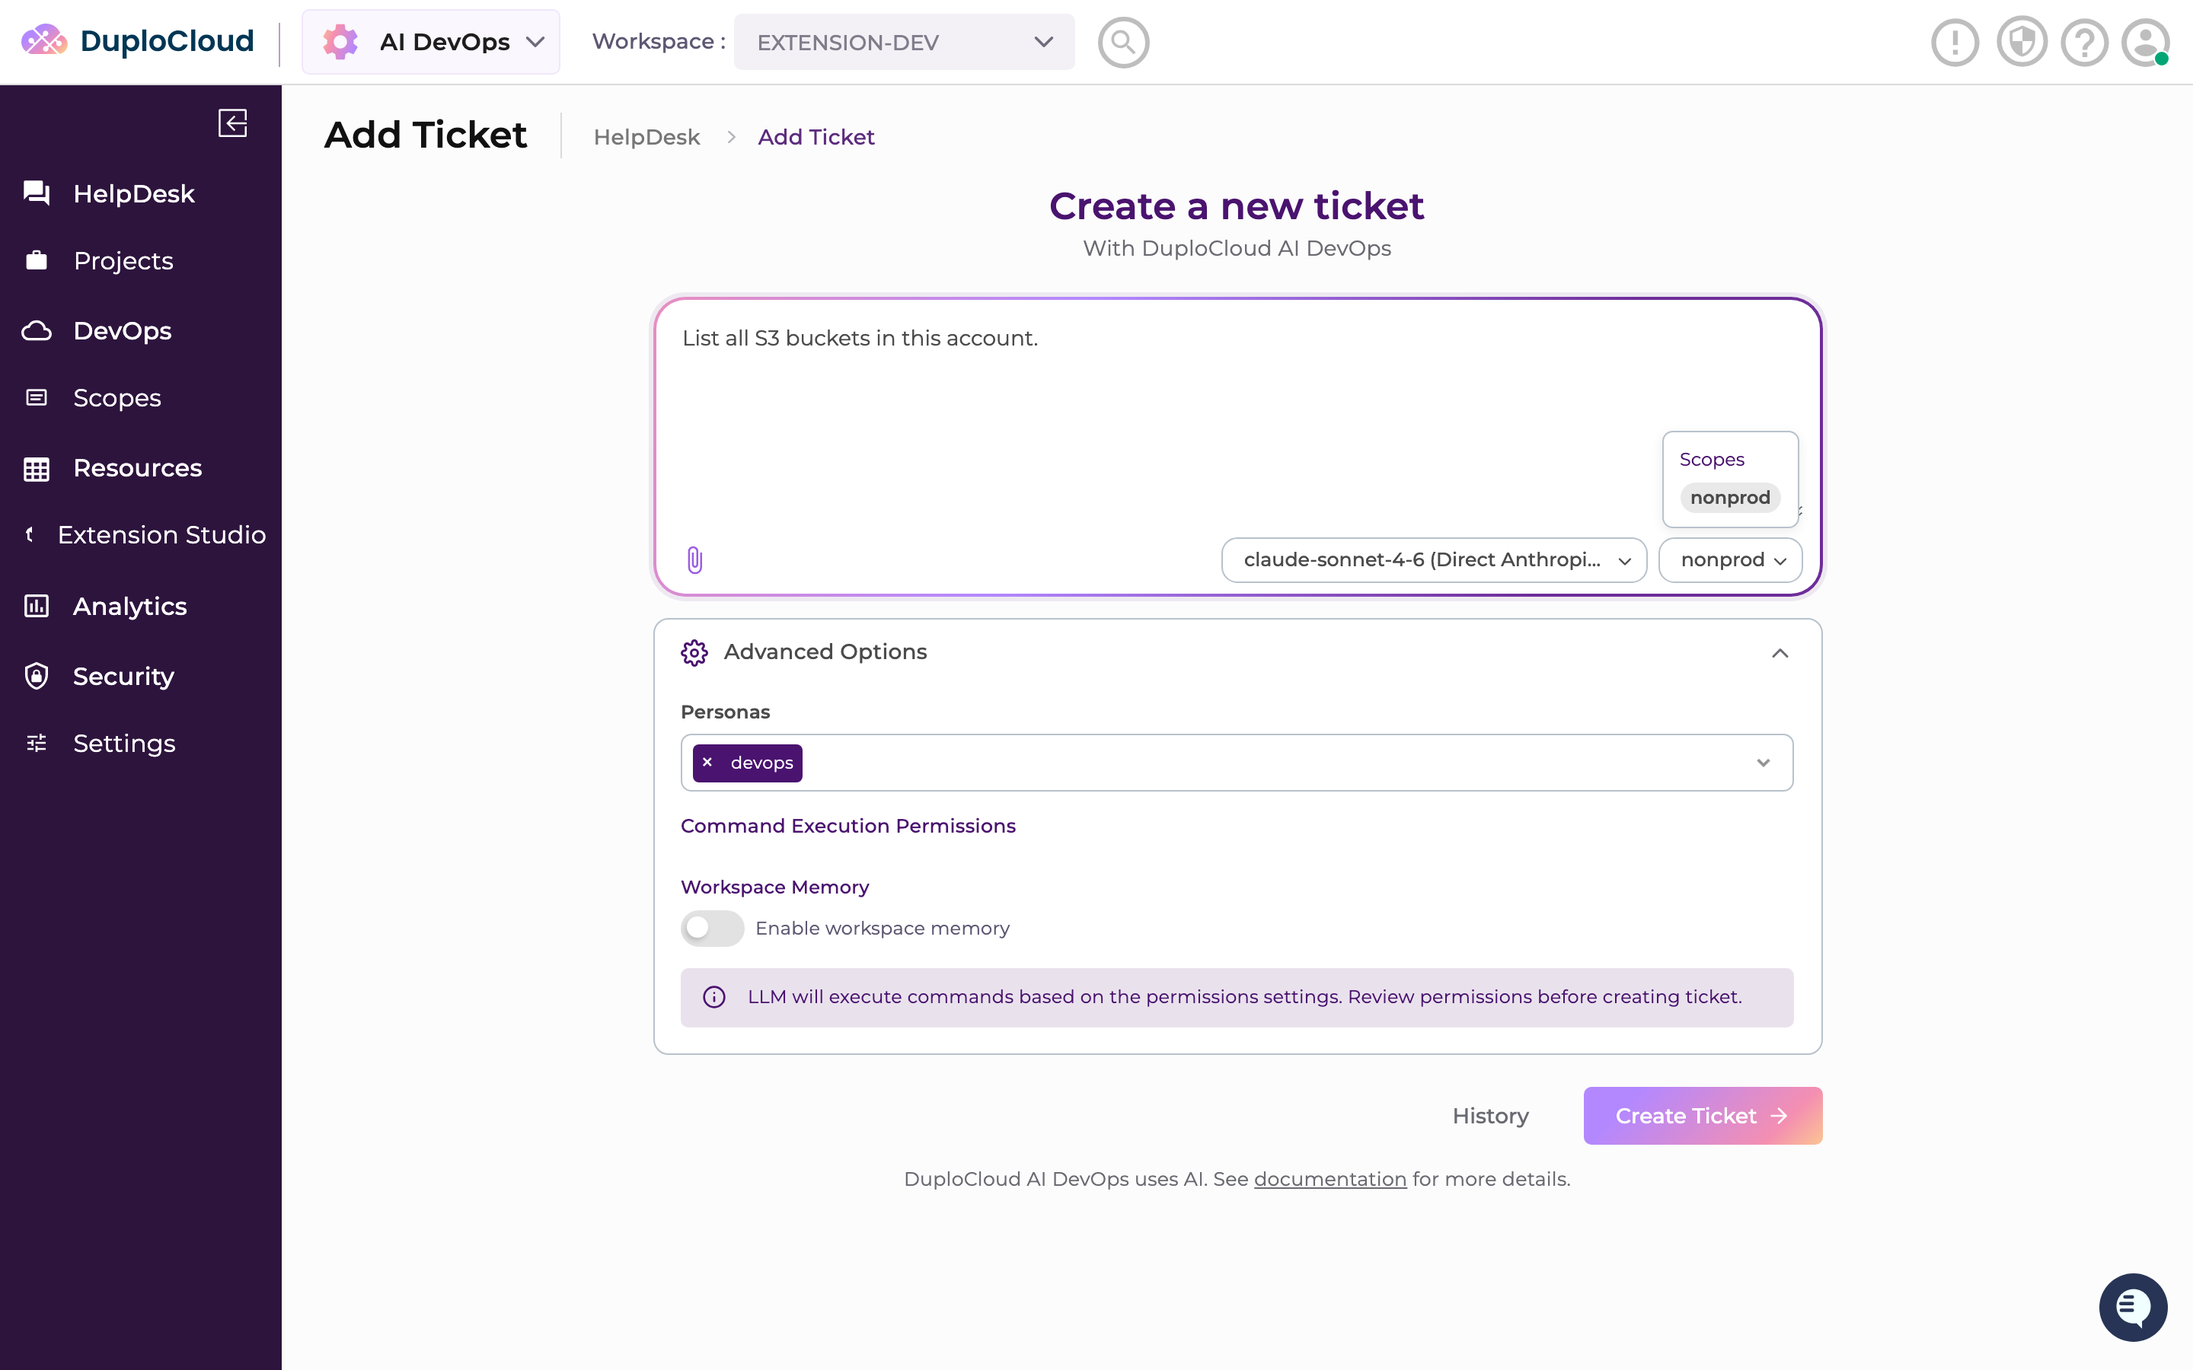
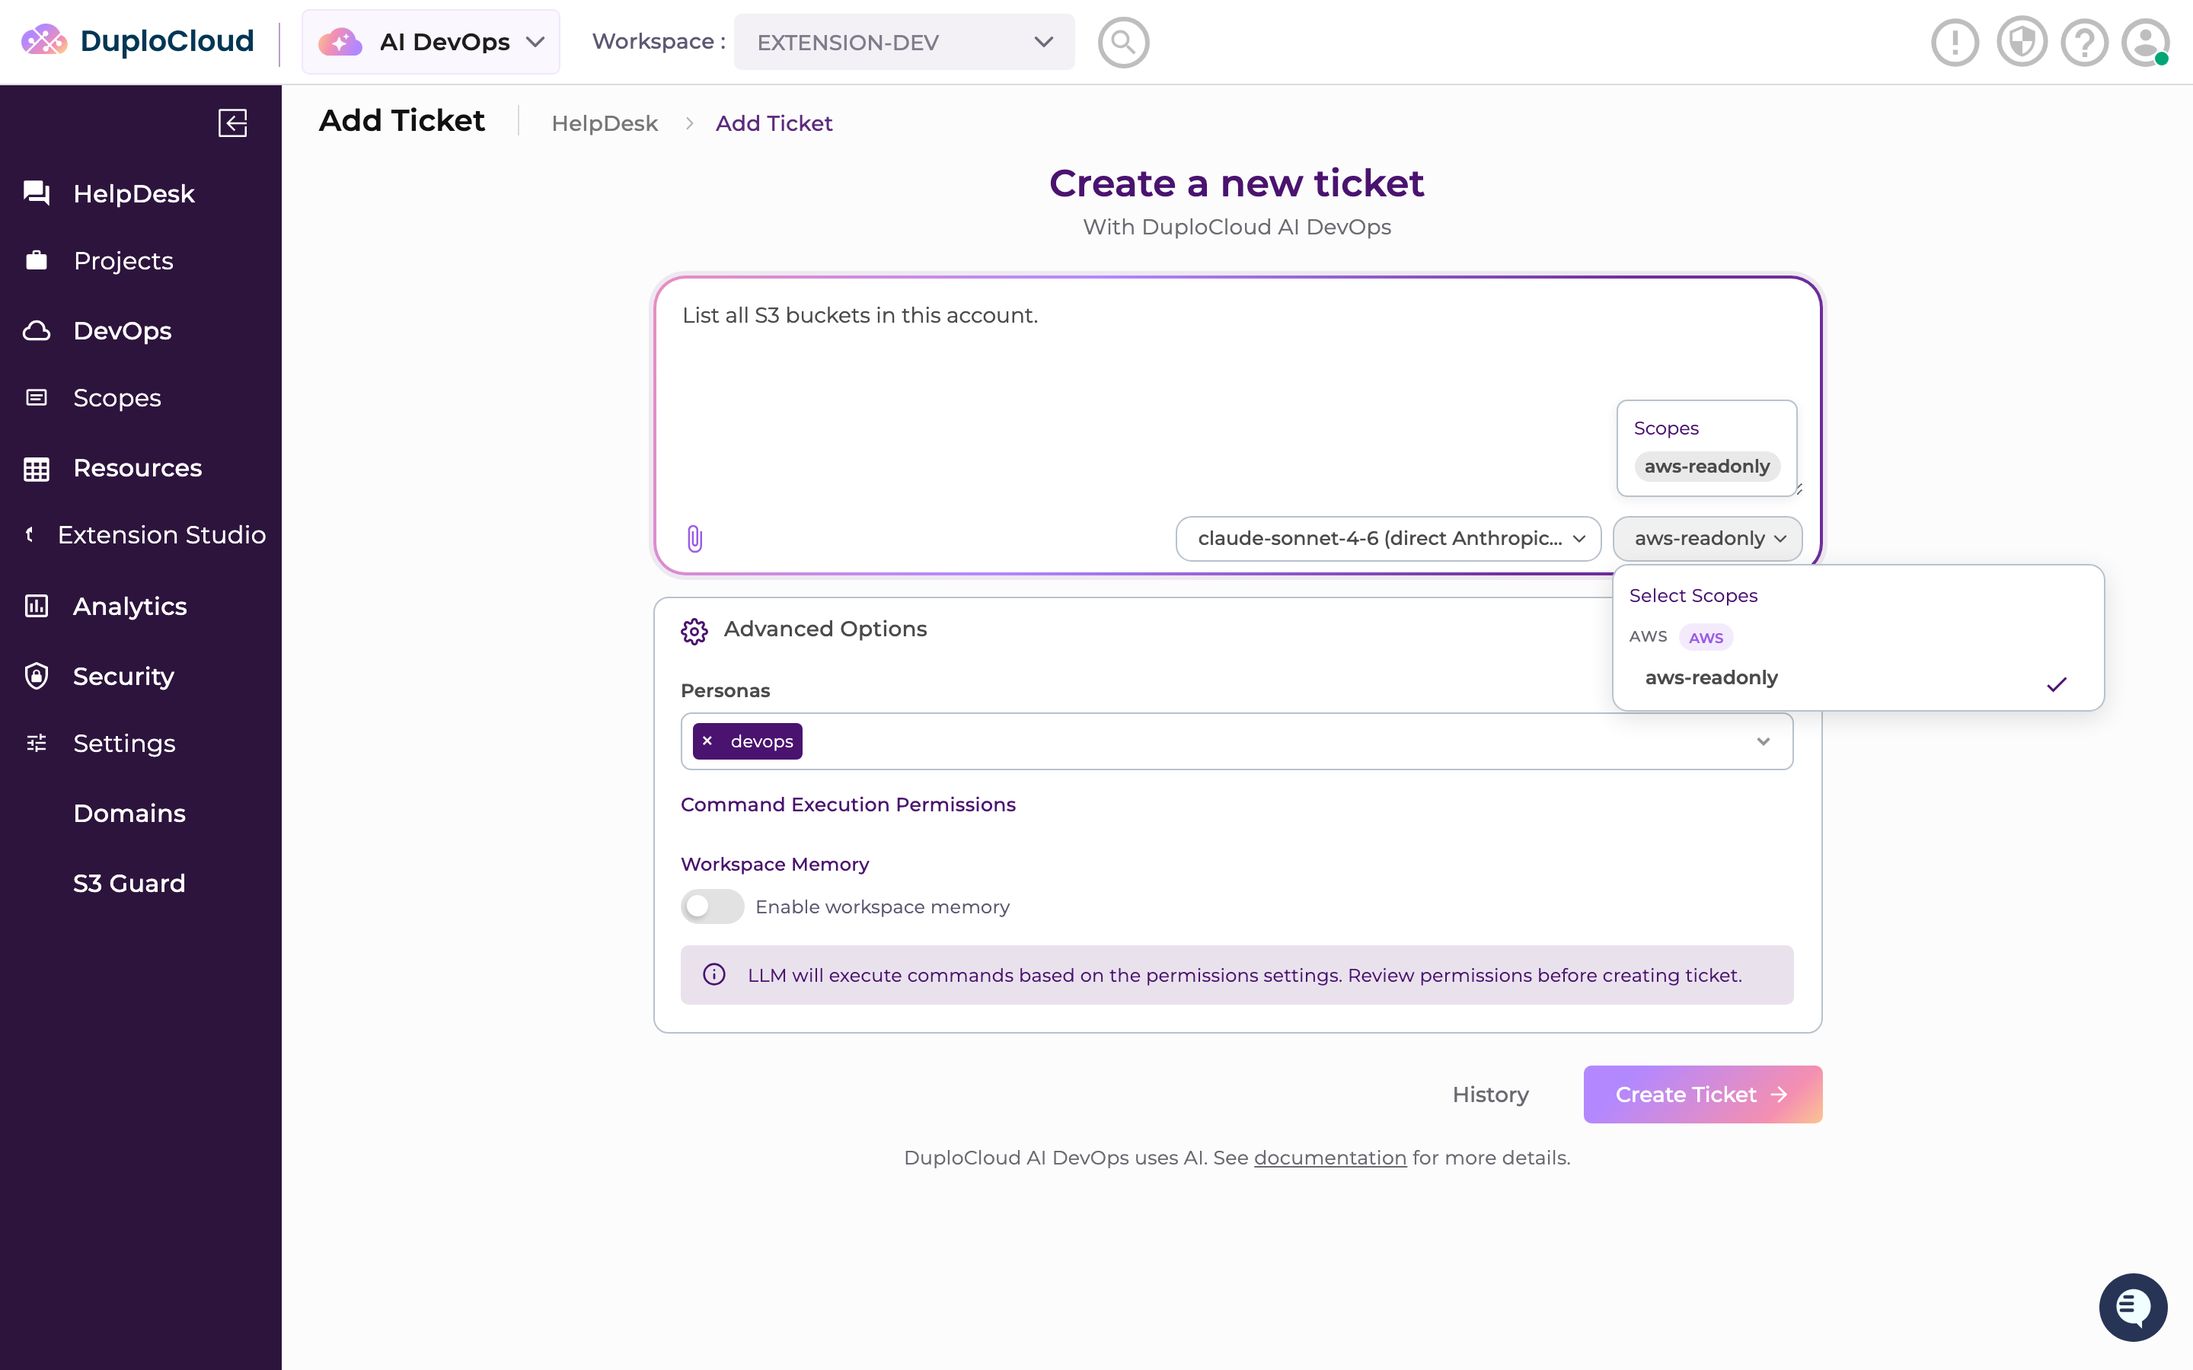
docs: rework the extension walkthrough around the Overview and add screenshots
The s3-guard specification readers paste now produces the two-item S3 Guard nav
group (Overview + Security Scans) with the charts at the estate level, since a
single scan only ever shows one region.

- Spec block: adds the Overview requirement, states the carry-forward timeline
  rule (plotting snapshots in arrival order is silently wrong once there is more
  than one scan), requires the aggregate be its own endpoint, and makes the
  scan detail page explicitly chart-free.
- Adds an evidence-accuracy requirement: a bucket with no policy is a different
  finding from a policy missing the deny, and unreadable configuration must say
  so rather than pass silently.
- Rewrites the Remediate callout. It previously asserted Remediate always returns
  AccessDenied; that holds only for the read-only scope page 2 creates, so it now
  scopes the claim and warns that a write-capable scope changes real buckets.
- 4.6 becomes a seven-step walkthrough with six screenshots.
- Fixes a count mismatch: the page said six rules while every dashboard shows
  seven rows, because public read and public write are separate findings.

Also retakes the step 5 ticket screenshot shared by quickstart.md and
connect-aws.md. The old one showed a `nonprod` scope, contradicting both pages,
which tell you to create and select `aws-readonly`.

diff --git a/docs/getting-started/build-your-first-extension.md b/docs/getting-started/build-your-first-extension.md
@@ -26,14 +26,19 @@ give it a name, an AWS region, the scope to scan with, and optionally a bucket t
 — and provisioning does the work:
 
 - **The scan.** Using the scope's AWS credentials, it inspects every S3 bucket in that region and
-  checks each one against six rules: Block Public Access not fully enabled, a policy or ACL allowing
-  public read or public write, default encryption off, versioning off, server access logging off, and
-  TLS not enforced. Each rule carries a severity, from Critical down to Low. The results are stored on
-  the resource rather than re-read live on every page load, and every run appends a summary snapshot.
+  checks each one against these rules: Block Public Access not fully enabled, a policy or ACL allowing
+  public read or public write (reported separately, so the dashboards show seven rows), default
+  encryption off, versioning off, server access logging off, and TLS not enforced. Each rule carries a
+  severity, from Critical down to Low. The results are stored on the resource rather than re-read live
+  on every page load, and every run appends a summary snapshot.
 
-- **The dashboard.** The scan's detail page: how many buckets were scanned, how many are clean, how
-  many have at least one violation, a count per rule, and a chart of violations over time — which is
-  what those snapshots are for. Below it, a table of only the buckets that failed something.
+- **The Overview.** The estate-wide dashboard, across every scan you have: totals, a count per rule,
+  a table of all your scans, and a chart of posture over time — which is what those snapshots are for.
+  This is the top of the feature, and it is deliberately not per-scan: one scan only ever shows one
+  region, and the question worth asking is whether the whole account is getting better.
+
+- **The scan detail page.** One region: how many buckets were scanned, how many are clean, how many
+  have at least one violation, a count per rule, and a table of only the buckets that failed something.
 
 - **The per-bucket detail view.** Click a failing bucket and you get every violation it has, what was
   found, why it matters, and an action plan describing the exact remediation for each one.
@@ -42,8 +47,10 @@ give it a name, an AWS region, the scope to scan with, and optionally a bucket t
   applies the fix for the ticked ones, re-scans that bucket, and updates its result. Read [4.4](#44-give-it-the-specification)
   before you press it.
 
-There can be several scans — one per region, re-run over time — so they are listed under their own
-**S3 Guard** group in the left navigation.
+There can be several scans — one per region, re-run over time — so they live under their own **S3 Guard**
+group in the left navigation, with **Overview** and **Security Scans** in it.
+
+![The S3 Guard group open in the left navigation, showing Overview and Security Scans](../images/s3guard-nav.png)
 
 You do not write any of this by hand. `/duplo-extension` interviews you, plans it, and builds it.
 
@@ -70,7 +77,7 @@ Leave the browser tab open; you come back to it in [4.6](#46-see-it-in-the-porta
 
 ## 4.3 Run `/duplo-extension`
 
-```
+```text
 /duplo-extension
 ```
 
@@ -101,9 +108,10 @@ almost straight to a plan.
 Build an extension called s3-guard: a security posture dashboard for S3 buckets.
 
 Use the AWS scope attached to the dev workspace for testing — if the scope name I give you
-doesn't exist, just use the one that's there, don't stop to ask. Note that Remediate needs S3
-write permissions: with read-only credentials scanning works fine and every Remediate comes
-back AccessDenied. That's the expected result, not a bug to chase.
+doesn't exist, just use the one that's there, don't stop to ask. Remediate needs S3 write
+permissions. If the scope is read-only every Remediate comes back AccessDenied, which is a
+result to display per rule, not a bug to chase — but don't assume the scope is read-only
+either. Report what actually happens, and tell me if a Remediate really changes a bucket.
 
 One resource type, "S3 Security Scan". The spec is a name, an AWS region, the scope to scan
 with, and an optional log target bucket. Provisioning uses the scope's AWS credentials to
@@ -119,28 +127,53 @@ inspect every S3 bucket in that region and check it against these rules:
 Severity per rule: public read/write are Critical, Block Public Access and TLS are High,
 encryption is Medium, versioning and logging are Low.
 
+Get the evidence right, not just the verdict. A bucket with no policy at all is a different
+finding from a bucket whose policy lacks the deny, and each rule should say what was actually
+observed. A bucket whose configuration can't be fully read should say so rather than silently
+passing.
+
 This is deterministic work — do it in a background worker, not an agent skill.
 
 The result records, per bucket, which rules it fails. Store the results on the resource rather
-than rescanning live on every page load, and have each run append a summary snapshot so the
-dashboard can show progress over time.
+than rescanning live on every page load, and have each run append a summary snapshot.
 
-Put it in a new top-level nav group called "S3 Guard".
+Put it in a new top-level nav group called "S3 Guard" with two items: Overview and Security
+Scans.
 
-There can be several scans (one per region, re-run over time), so the nav lists the scans and
-each scan's detail page is the dashboard: total buckets scanned, how many are clean, how many
-have at least one violation, a count per rule, and a chart of violations over time. Below that,
-a table of only the buckets that failed something — bucket name, region, number of violations,
-worst severity.
+Overview is the top-level dashboard and it is where the charts live. It aggregates across ALL
+scans, not one: total buckets scanned, clean, and with at least one violation; a count per
+rule; how many scans across how many regions; and a chart of posture over time for the whole
+estate. Below that, a table of every scan — name, region, status, last scanned, buckets,
+buckets with violations — that clicks through to the scan.
+
+The estate timeline has to combine scans that are sampled at different times: one region might
+re-scan hourly while another re-scans weekly. At each point in time, every scan contributes its
+most recent snapshot at or before that moment, and those are summed. Do not just plot snapshots
+in the order they arrive — that makes the estate look like it collapses to one region's size
+every time a single scan re-runs. Each point should also carry how many scans were contributing,
+so a step up in the total reads as "another scan started reporting" rather than "the estate grew".
+
+Serve that aggregate from its own backend endpoint. Don't roll it up in the browser from the
+list response — the list carries every bucket finding of every scan, which is tens of kB per
+scan and grows with the estate, and the chart needs none of it.
+
+Security Scans lists the scans. A scan's detail page covers that region only: total buckets
+scanned, how many are clean, how many have at least one violation, a count per rule, and a
+table of only the buckets that failed something — bucket name, region, number of violations,
+worst severity. No chart on this page; a single scan's history is one region's slice, and the
+trend question belongs at the estate level.
 
 Clicking a bucket opens a detail view for that bucket showing every violation with what was
 found and why it matters, and an action plan describing the exact remediation for each one.
 Each violation is a checkbox, all ticked by default, and there is a Remediate button. Remediate
-applies the fix for only the ticked violations, then re-scans that bucket and updates its result.
+applies the fix for only the ticked violations, then re-scans that bucket and updates its
+result, and shows the outcome of each rule it attempted.
 
 Server access logging can't be turned on without a destination bucket. If the log target bucket
 is set, remediate it; if it's blank, still report the violation but disable its checkbox and say
 why. Don't auto-create a log bucket.
+
+Scans can be re-run on demand, and re-running is what extends the trend.
 
 Use chart.js for the charts. Build the frontend on whatever stack the current dev-kit template
 ships — don't carry one over from an older dev-kit.
@@ -150,14 +183,16 @@ Deleting a scan tears nothing down, and never reverts a remediation.
 Keep it to this one resource type. Do not add a parent-child hierarchy.
 ```
 
-> **Remediate will not work, and that is the expected result.** The IAM user you created on
-> [page 2](connect-aws.md#21-create-an-iam-user-and-access-key) has `ReadOnlyAccess`. The scan reads
-> every bucket's configuration, so the dashboard, the per-bucket detail, the violations and the action
-> plans all work — but nothing that credential holds can change a bucket, so pressing **Remediate**
-> returns `AccessDenied`. That is not a bug and there is nothing to chase. To make **Remediate** work,
-> give that IAM user write access to the buckets you want to fix, or attach a second, more privileged
-> scope and scan with that one instead. Read-only is the safer default for a machine you have just set
-> up, which is why page 2 chose it.
+> **Remediate needs write access, and the scope from page 2 does not have it.** The IAM user you
+> created on [page 2](connect-aws.md#21-create-an-iam-user-and-access-key) has `ReadOnlyAccess`. The
+> scan only reads bucket configuration, so the Overview, the scan pages, the per-bucket detail, the
+> violations and the action plans all work on read-only credentials. **Remediate** is the one thing that
+> writes, so with that scope each ticked rule comes back `AccessDenied` — shown against the rule it
+> belongs to. That is the credential refusing, not the extension failing, and there is nothing to chase.
+> To make **Remediate** actually apply, give that IAM user write access to the buckets you want to fix,
+> or attach a second, more privileged scope and scan with that one instead. Read-only is the safer
+> default for a machine you have just set up, which is why page 2 chose it — and if you do point
+> `s3-guard` at a scope that can write, remember that pressing **Remediate** changes real buckets.
 
 ## 4.5 Approve the plan
 
@@ -176,8 +211,8 @@ Claude Code does not start building from the paste. It works through the rest of
 
 4. **Then it presents one plan.** Not a plan per file — one, covering the whole build: a table of spec
    fields, a table of result fields, a walkthrough of the UI (where it lands in the left nav, the
-   create form, the list, the detail view), the files it will create under `extensions/s3-guard/`, and
-   the exact build and deploy commands it intends to run.
+   create form, the list, the Overview and the scan detail), the files it will create under
+   `extensions/s3-guard/`, and the exact build and deploy commands it intends to run.
 
 Read that plan; it is your one chance to change the shape before anything is written. Then approve it
 **once**. Approving covers the whole build, which is the point — the alternative is a permission prompt
@@ -201,15 +236,42 @@ that symptom is in [troubleshooting.md](../troubleshooting.md#extensions).
 1. Go back to the browser and **reload the tab**. The left navigation is built when the portal loads,
    so a tab that was open through the deploy will not show the new group until you do.
 
-2. **S3 Guard** is now a top-level group in the left nav, alongside the built-in sections, with your
-   scans listed under it.
+2. **S3 Guard** is now a top-level group in the left nav, alongside the built-in sections, with
+   **Overview** and **Security Scans** in it.
 
-3. Create a scan. Fill in the name and the AWS region you want to look at, select the `aws-readonly`
-   scope, and leave the log target bucket blank unless you have a bucket to send access logs to.
+3. Open **Security Scans** and press **Create Scan**. Fill in the name and the AWS region you want to
+   look at, select the `aws-readonly` scope, and leave the log target bucket blank unless you have a
+   bucket to send access logs to.
 
-4. Provisioning runs the scan in the background. When it completes, open the scan and its detail page
-   is the dashboard: the totals, the per-rule counts, the chart, and the table of buckets that failed
-   something. Click one of those buckets for its violations and its action plan.
+   ![The Create S3 Security Scan form, with name, AWS region, AWS scope and an optional log target bucket](../images/s3guard-create-form.png)
+
+4. Provisioning runs the scan in the background — no ticket and no agent, just a background worker, so
+   the row moves from `New` to `Complete` on its own. A region with a few dozen buckets takes a minute
+   or two.
+
+   ![The Security Scans list, with two completed scans covering us-east-1 and us-west-2](../images/s3guard-scans-list.png)
+
+5. Open the scan. Its detail page covers that one region: the totals, the per-rule counts, and the
+   table of buckets that failed something.
+
+   ![A scan's detail page for us-east-1: 35 buckets scanned, 0 clean, 35 with violations, counts per rule, and the table of failing buckets](../images/s3guard-scan-detail.png)
+
+6. Click one of those buckets. Every violation it has is listed with what was found, why it matters and
+   the exact remediation — each one a checkbox, ticked by default. The greyed-out row is the design
+   working: server access logging cannot be enabled without a destination bucket, so with no log target
+   set on the scan the violation is still reported but its checkbox is disabled and it says why.
+
+   ![A bucket's detail page showing two violations, the TLS one ticked and the logging one disabled with its reason, and a Remediate button](../images/s3guard-bucket-detail.png)
+
+7. Now go to **Overview**. This is the estate-wide picture across every scan you have created — totals,
+   violations by rule, the table of scans, and posture over time.
+
+   ![The S3 Guard Overview: 131 buckets across 2 scans in 2 regions, a stepped chart of posture over time, violations by rule, and the by-scan table](../images/s3guard-overview.png)
+
+   The chart only becomes interesting once there is more than one data point, so create a second scan in
+   another region, or press **Re-scan** on one you already have, and come back. Each scan contributes
+   its most recent result at every point in time, which is why the line steps up when a second region
+   first reports rather than replacing the first region's figure.
 
 Nothing is scanned until you create a scan — an empty **S3 Guard** group straight after the deploy is
 the extension working, not failing.
